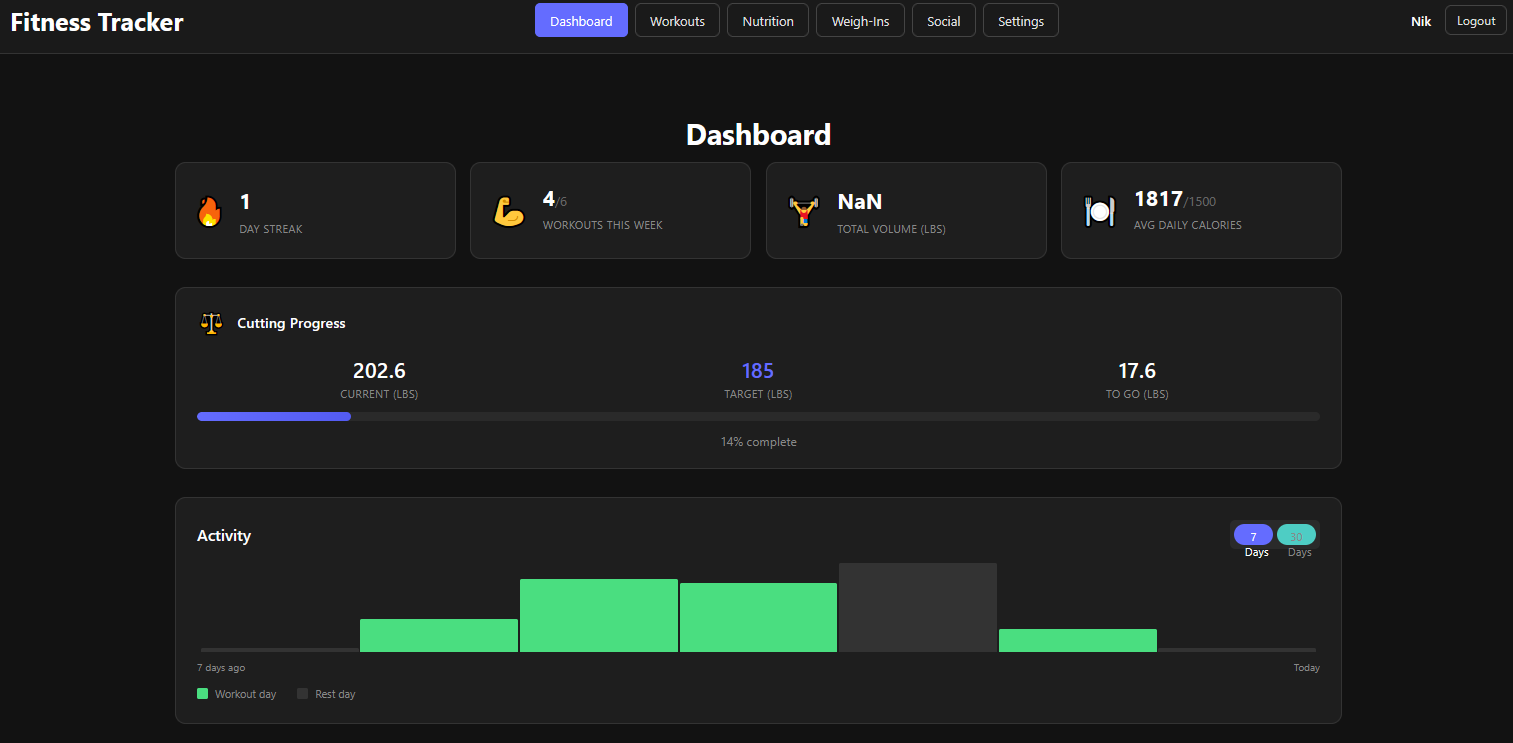
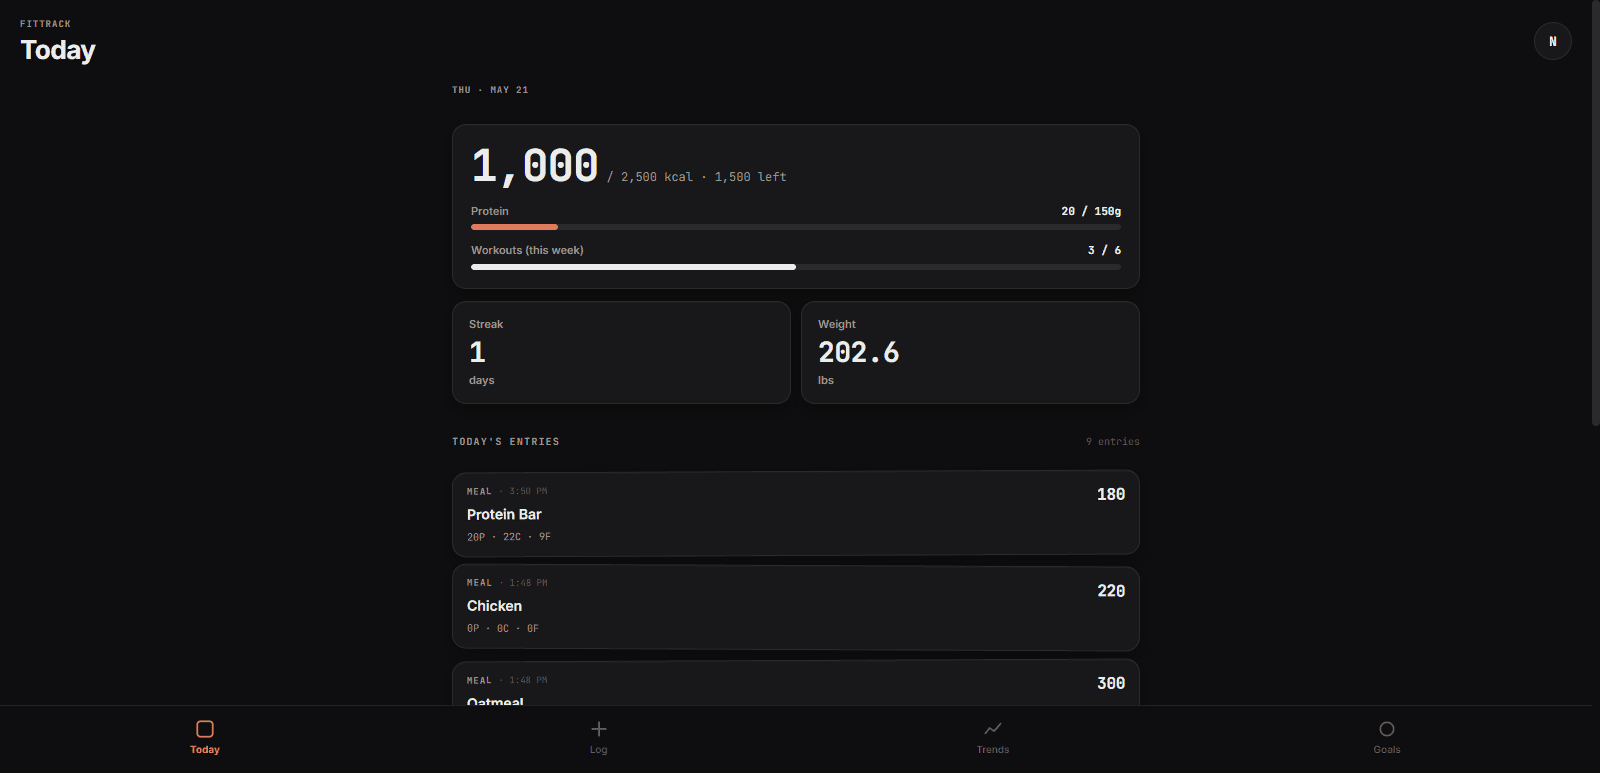
Replace headshot, compress project thumbnails, tune hero photo
- Swap self.png for compressed self.jpg headshot, top-aligned in square frame
- Compress pokemon-tcg-search.png (5.9MB to 1.4MB) and fitness-tracker.png
- Refresh emoji-react.png screenshot

diff --git a/src/components/Hero.tsx b/src/components/Hero.tsx
@@ -1,4 +1,4 @@
-import self from '../assets/self.png'
+import self from '../assets/self.jpg'
 
 const socials = [
   {
@@ -28,8 +28,13 @@ const socials = [
 
 const Photo = ({ className = '' }: { className?: string }) => (
   <div className={`relative ${className}`}>
-    <div className="aspect-[4/5] md:aspect-square bg-surface-container rounded-xl overflow-hidden border border-outline-variant shadow-sm">
-      <img alt="Nik Barbero headshot" className="w-full h-full object-cover" src={self} />
+    <div className="aspect-square bg-surface-container rounded-xl overflow-hidden border border-outline-variant shadow-sm">
+      <img
+        alt="Nik Barbero headshot"
+        className="w-full h-full object-cover"
+        style={{ objectPosition: 'center top' }}
+        src={self}
+      />
       {/* Badge sits inside the photo bottom-left on mobile */}
       <div className="md:hidden absolute bottom-3 left-3 px-3 py-2 bg-surface-container-lowest border border-outline-variant rounded-lg shadow-sm">
         <div className="font-label-sm text-label-sm text-outline uppercase tracking-widest">

diff --git a/src/components/StickyBar.tsx b/src/components/StickyBar.tsx
@@ -1,5 +1,5 @@
 import { useEffect, useState } from 'react'
-import self from '../assets/self.png'
+import self from '../assets/self.jpg'
 
 export default function StickyBar() {
   const [hidden, setHidden] = useState(false)
